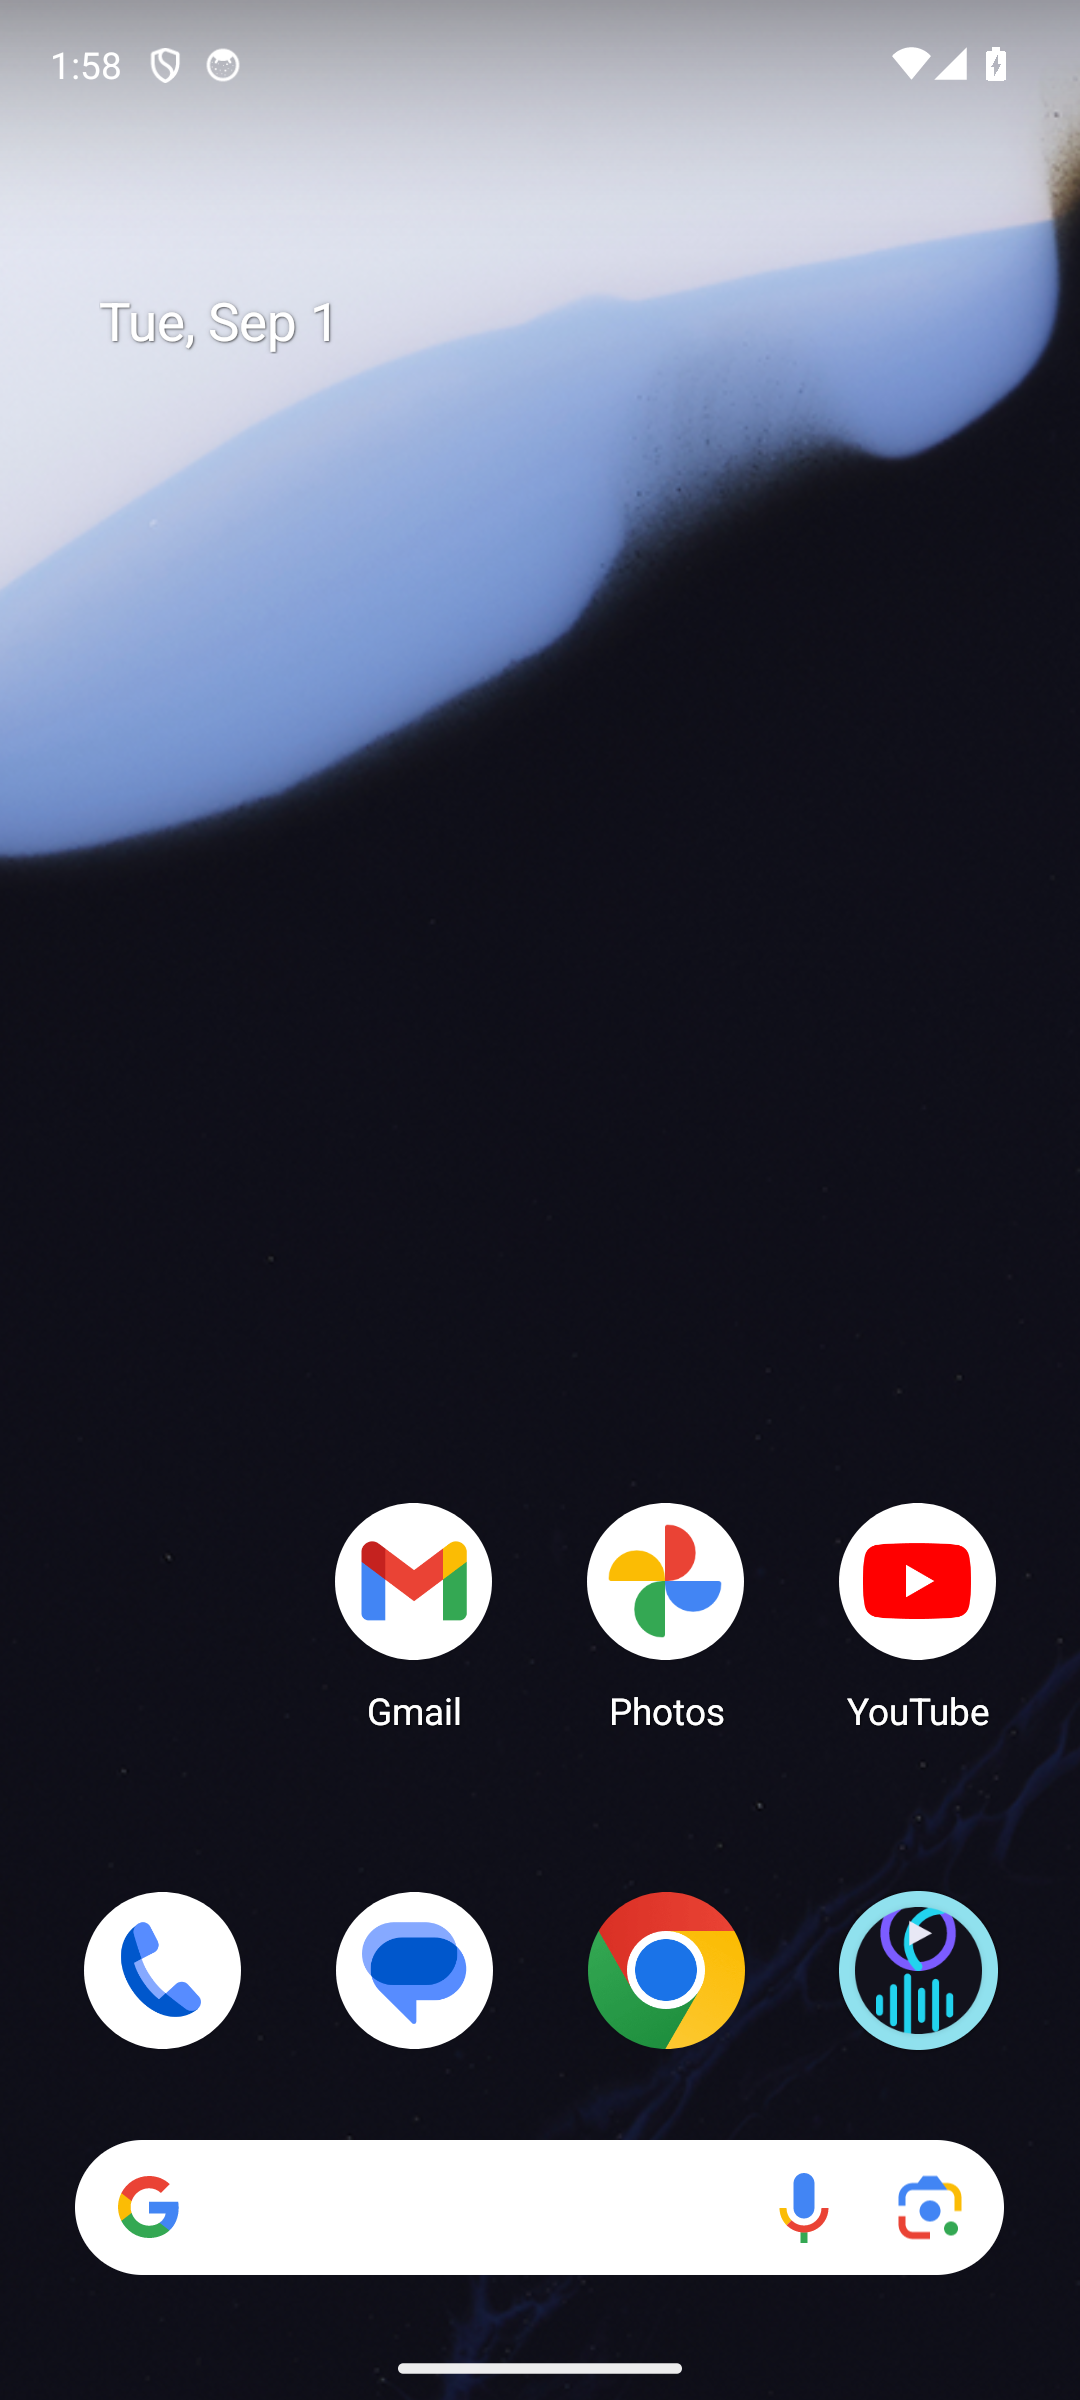
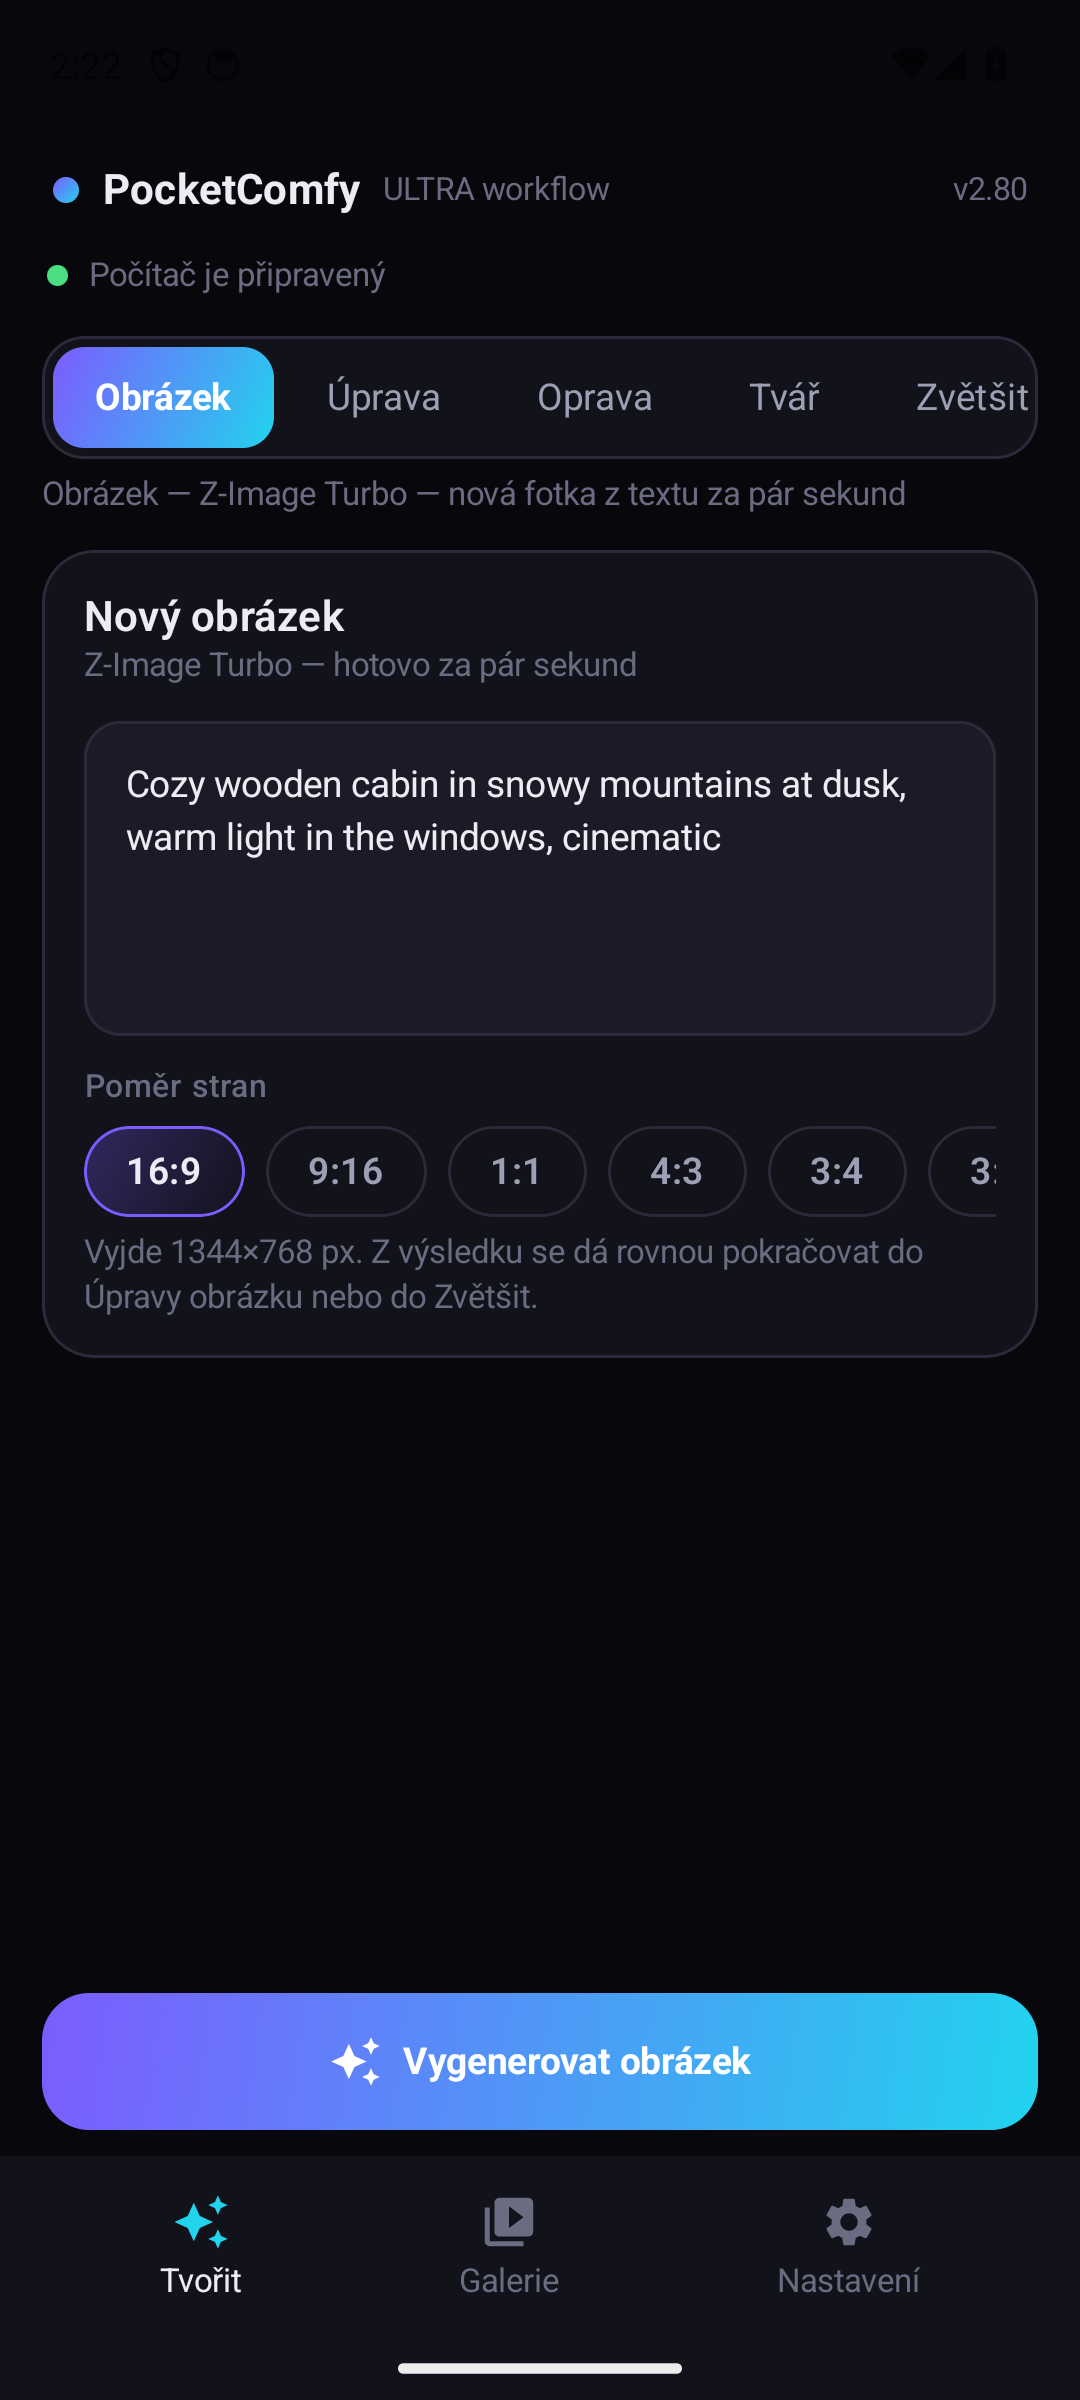
README: pozadavky viditelne nahore (ComfyUI, nody, modely, Tailscale) + oprava screenshotu karty Obrazek

diff --git a/README.md b/README.md
@@ -26,6 +26,19 @@ Nativní Android klient pro tvůj ComfyUI server. Žádný cloud, žádné před
 
 ---
 
+## ⚠ Co potřebuješ, aby to fungovalo
+
+PocketComfy je **klient** — samo nic negeneruje. Než začneš, potřebuješ:
+
+| | Požadavek | Podrobnosti |
+|---|---|---|
+| 🖥 | **Počítač s NVIDIA grafikou** (doporučeno 16 GB VRAM) a **[ComfyUI](https://github.com/comfyanonymous/ComfyUI)** | spuštěné s `--listen 0.0.0.0` |
+| 🧩 | **Custom nody a modely** | přesný seznam: **[POZADAVKY.md](POZADAVKY.md)** · na Windows je nainstaluje skript **[instalace-serveru.bat](instalace-serveru.bat)** · co chybí, vypíše appka v Nastavení |
+| 📱 | **Android telefon** (Android 8+) | na stejné Wi-Fi jako počítač |
+| 🌍 | **[Tailscale](https://tailscale.com)** (volitelné) | bezplatná VPN, díky které appka funguje i mimo domov — [návod v INSTALACE.md](INSTALACE.md#přístup-odkudkoli-volitelné-doporučené) |
+
+📖 **Kompletní návod od nuly po první video: [INSTALACE.md](INSTALACE.md)** — server, nody, modely, sestavení aplikace, Tailscale i řešení potíží.
+
 ## ✨ Proč si ji zamiluješ
 
 - 🏠 **100 % lokální.** Generuje tvůj počítač, appka jen posílá zadání a stahuje výsledky. Přes VPN (Tailscale) to funguje odkudkoli na světě.
